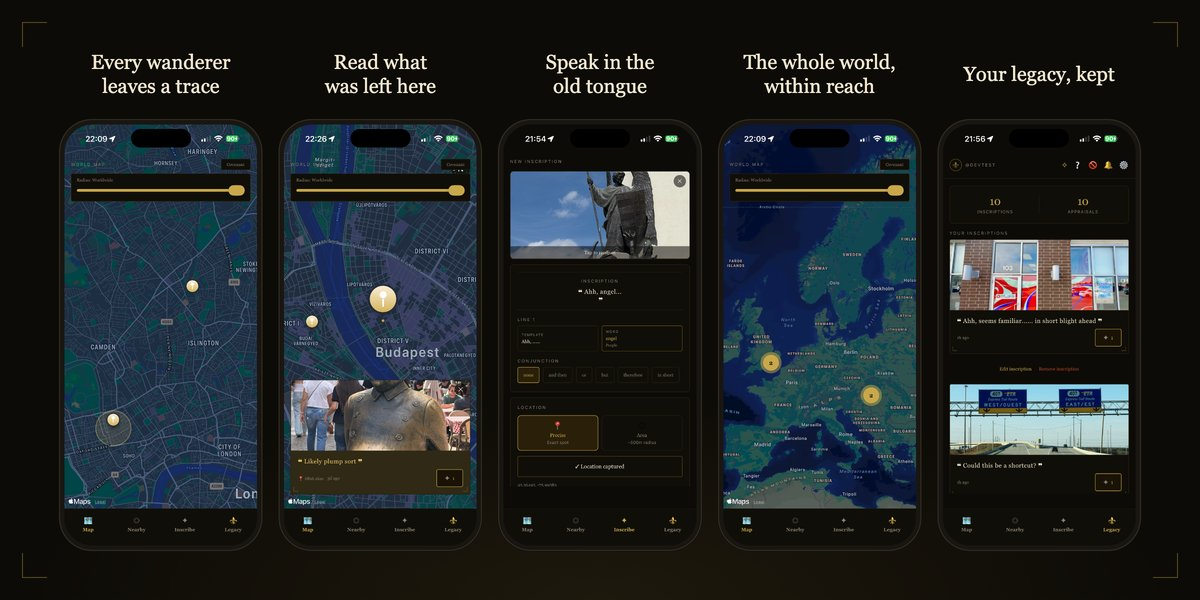
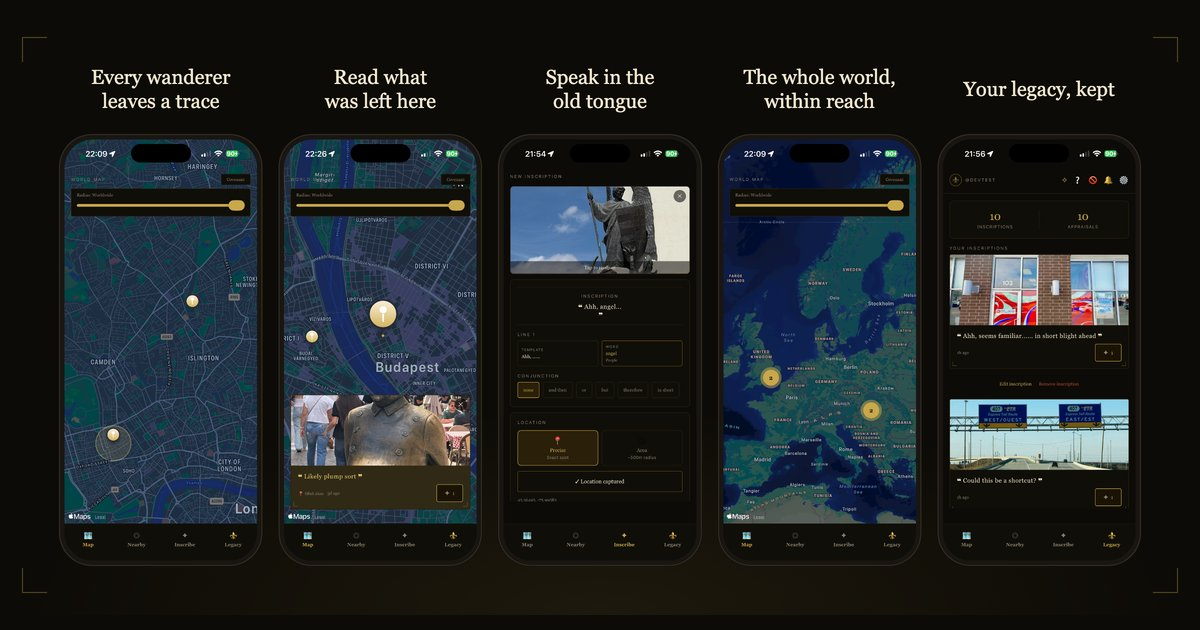
SEO pass: sitemap, robots, structured data, descriptions, canonicals
- robots.txt and sitemap.xml for the three indexable pages
- JSON-LD MobileApplication block with App Store link and offers
- Title tag carries descriptive keywords; h1 keeps the brand line
- Preload the first carousel image
- Open Graph image padded to 1200x630
- Legal pages (both the site and the interim docs/ copies) gain meta
  descriptions and canonical links pointing at getsigil.ca

diff --git a/index.html b/index.html
@@ -3,7 +3,7 @@
 <head>
 <meta charset="utf-8">
 <meta name="viewport" content="width=device-width, initial-scale=1">
-<title>Sigil — Leave your mark on the world</title>
+<title>Sigil — Leave inscriptions at real places, an iPhone app</title>
 <meta name="description" content="Sigil is an iPhone app for leaving inscriptions at real places. Compose a message from curated word banks, pin it to the world, and discover what other wanderers left nearby.">
 <meta name="theme-color" content="#0D0B07">
 <meta name="apple-itunes-app" content="app-id=6799269635">
@@ -14,15 +14,60 @@
 <meta property="og:url" content="https://getsigil.ca/">
 <meta property="og:image" content="https://getsigil.ca/assets/og.jpg">
 <meta property="og:image:width" content="1200">
-<meta property="og:image:height" content="600">
+<meta property="og:image:height" content="630">
 <meta name="twitter:card" content="summary_large_image">
 <meta name="twitter:title" content="Sigil — Leave your mark on the world">
 <meta name="twitter:description" content="Inscribe a message at a real place, then discover what others left nearby. Free on iPhone.">
 <meta name="twitter:image" content="https://getsigil.ca/assets/og.jpg">
 <link rel="canonical" href="https://getsigil.ca/">
+<script type="application/ld+json">
+{
+  "@context": "https://schema.org",
+  "@type": "MobileApplication",
+  "name": "Sigil",
+  "url": "https://getsigil.ca/",
+  "description": "Sigil is an iPhone app for leaving inscriptions at real places. Compose a message from curated word banks, pin it to the world, and discover what other wanderers left nearby.",
+  "operatingSystem": "iOS",
+  "applicationCategory": "SocialNetworkingApplication",
+  "installUrl": "https://apps.apple.com/app/sigil/id6799269635",
+  "image": "https://getsigil.ca/assets/og.jpg",
+  "screenshot": [
+    "https://getsigil.ca/shots/map-720.webp",
+    "https://getsigil.ca/shots/inscription-card-720.webp",
+    "https://getsigil.ca/shots/inscription-builder-720.webp"
+  ],
+  "offers": [
+    {
+      "@type": "Offer",
+      "price": "0",
+      "priceCurrency": "USD",
+      "description": "Free download"
+    },
+    {
+      "@type": "Offer",
+      "name": "Sigil+ monthly",
+      "price": "1.99",
+      "priceCurrency": "USD",
+      "category": "subscription"
+    },
+    {
+      "@type": "Offer",
+      "name": "Sigil+ yearly",
+      "price": "16.99",
+      "priceCurrency": "USD",
+      "category": "subscription"
+    }
+  ],
+  "author": {
+    "@type": "Person",
+    "name": "Taha Deol"
+  }
+}
+</script>
 <link rel="icon" href="/favicon.png">
 <link rel="apple-touch-icon" href="/assets/apple-touch-icon.png">
 <link rel="stylesheet" href="/styles.css">
+<link rel="preload" as="image" href="/shots/map-480.webp" imagesrcset="/shots/map-480.webp 480w, /shots/map-720.webp 720w" imagesizes="(max-width: 600px) 46vw, 240px">
 </head>
 <body>
 <a class="skip" href="#main">Skip to content</a>

diff --git a/docs/privacy.html b/docs/privacy.html
@@ -4,6 +4,8 @@
 <meta charset="utf-8" />
 <meta name="viewport" content="width=device-width, initial-scale=1" />
 <title>Privacy Policy — Sigil</title>
+<meta name="description" content="How Sigil collects, uses, and protects your information, including location data, photos, and account details." />
+<link rel="canonical" href="https://getsigil.ca/privacy" />
 <link rel="icon" href="favicon.png" />
 <style>
   :root {
@@ -229,5 +231,6 @@
   <a href="mailto:taha.asim.deol@hotmail.com">Contact</a>
 </div>
 </div>
+<script defer src="/_vercel/insights/script.js"></script>
 </body>
 </html>

diff --git a/docs/terms.html b/docs/terms.html
@@ -4,6 +4,8 @@
 <meta charset="utf-8" />
 <meta name="viewport" content="width=device-width, initial-scale=1" />
 <title>Terms of Service — Sigil</title>
+<meta name="description" content="The terms for using the Sigil iPhone app, including the Sigil+ subscription, acceptable use, and your content." />
+<link rel="canonical" href="https://getsigil.ca/terms" />
 <link rel="icon" href="favicon.png" />
 <style>
   :root {
@@ -249,5 +251,6 @@
   <a href="mailto:taha.asim.deol@hotmail.com">Contact</a>
 </div>
 </div>
+<script defer src="/_vercel/insights/script.js"></script>
 </body>
 </html>

diff --git a/docs/index.html b/docs/index.html
@@ -4,6 +4,8 @@
 <meta charset="utf-8" />
 <meta name="viewport" content="width=device-width, initial-scale=1" />
 <title>Support — Sigil</title>
+<meta name="description" content="Get help with the Sigil iPhone app." />
+<link rel="canonical" href="https://getsigil.ca/" />
 <link rel="icon" href="favicon.png" />
 <style>
   :root {
@@ -74,5 +76,6 @@
   <a href="mailto:taha.asim.deol@hotmail.com">Contact</a>
 </div>
 </div>
+<script defer src="/_vercel/insights/script.js"></script>
 </body>
 </html>

diff --git a/privacy.html b/privacy.html
@@ -4,6 +4,8 @@
 <meta charset="utf-8" />
 <meta name="viewport" content="width=device-width, initial-scale=1" />
 <title>Privacy Policy — Sigil</title>
+<meta name="description" content="How Sigil collects, uses, and protects your information, including location data, photos, and account details." />
+<link rel="canonical" href="https://getsigil.ca/privacy" />
 <link rel="icon" href="favicon.png" />
 <style>
   :root {

diff --git a/terms.html b/terms.html
@@ -4,6 +4,8 @@
 <meta charset="utf-8" />
 <meta name="viewport" content="width=device-width, initial-scale=1" />
 <title>Terms of Service — Sigil</title>
+<meta name="description" content="The terms for using the Sigil iPhone app, including the Sigil+ subscription, acceptable use, and your content." />
+<link rel="canonical" href="https://getsigil.ca/terms" />
 <link rel="icon" href="favicon.png" />
 <style>
   :root {
